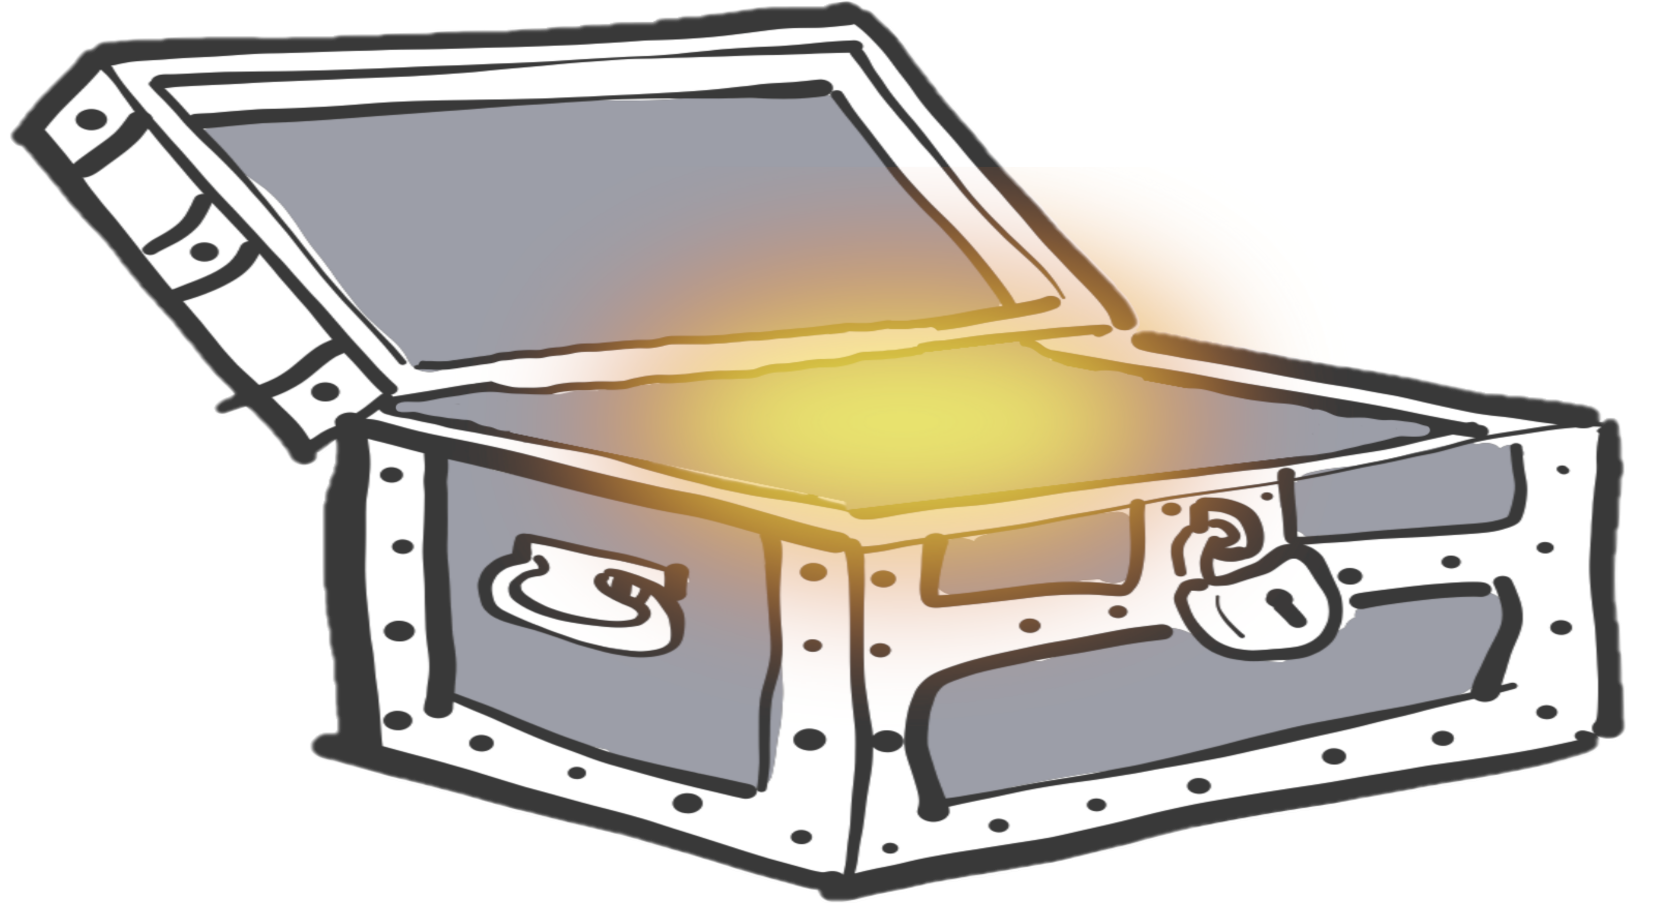
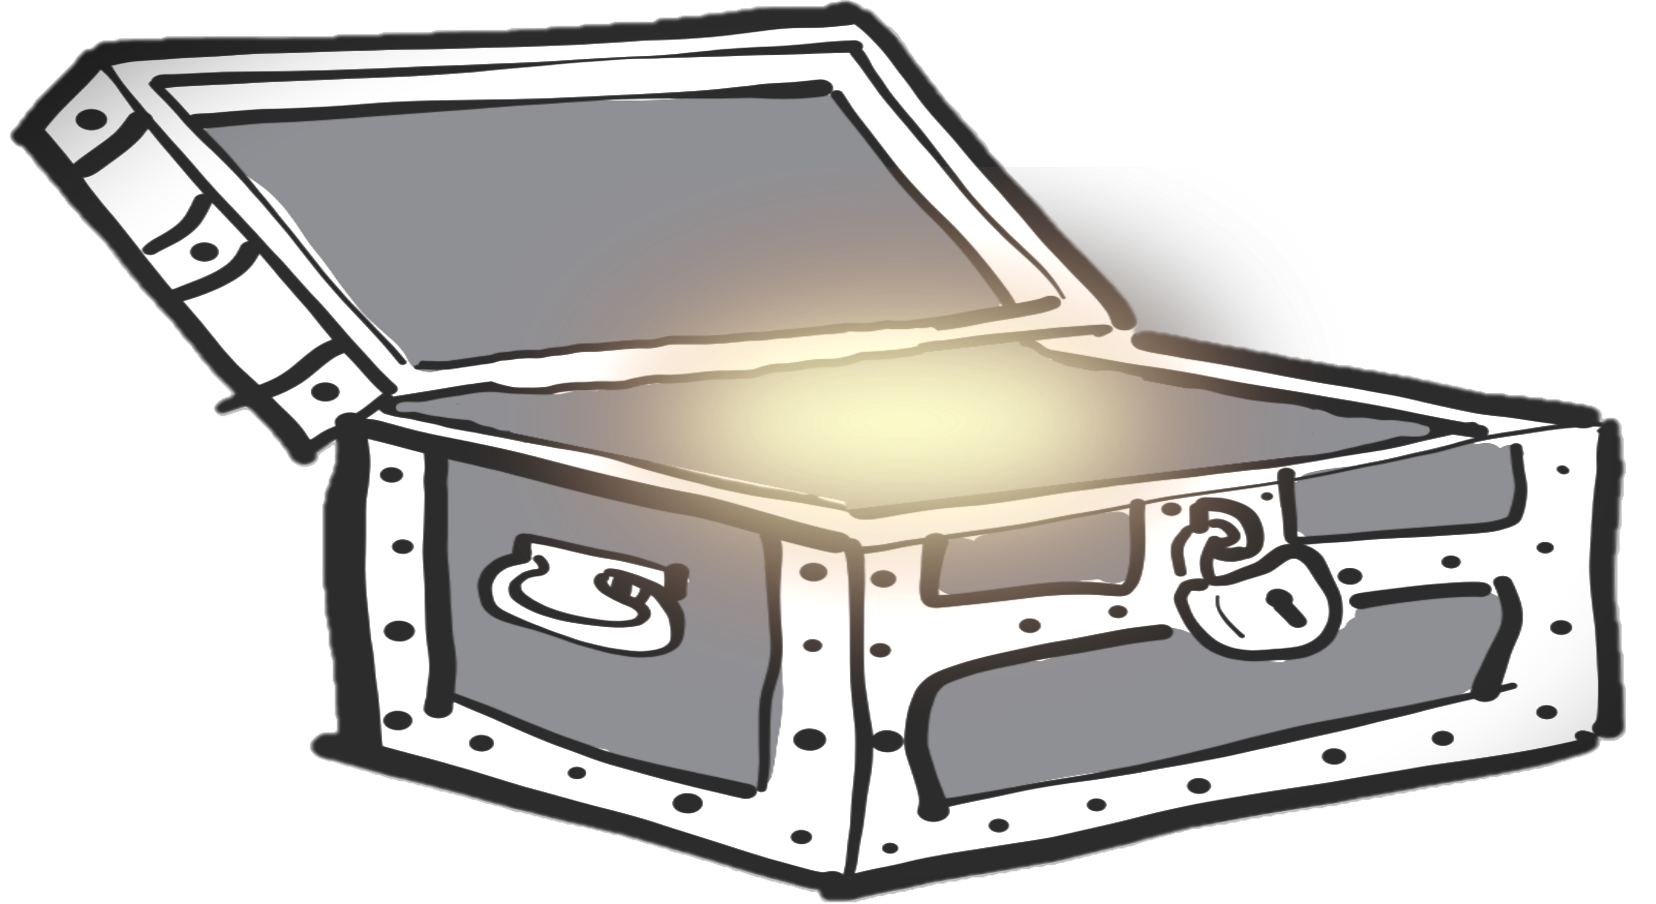
dashtime

diff --git a/test/example.css b/test/example.css
@@ -97,7 +97,7 @@ body {
   margin-top: 30px;
   position: fixed;
   transform: translate(-50%, -50%);
-  height: 15vh;
+  width: 250px;
   font-size: 1rem;
   text-align: center;
   -webkit-filter: drop-shadow(5px 5px 5px rgb(140, 167, 185));
@@ -295,17 +295,8 @@ body {
   from{transform:scale(0)} to{transform:scale(1)}
 }
 .btn1 {
+  padding: 10px;
   margin-top: 5vh;
-  width: 80vw;
-  border-color: aliceblue;
-  background-color: rgb(255, 255, 255, 0.2);
-  color:rgb(56, 82, 100);
-  border-radius: 8px;
-  font-size: x-large;
-  margin-bottom: 50px;
-  box-shadow: rgba(9, 143, 233, 0.25) 0px 14px 28px, rgba(0, 0, 0, 0.22) 0px 10px 10px;
-}
-.btn2 {
   width: 80vw;
   border-color: aliceblue;
   background-color: rgb(255, 255, 255, 0.4);
@@ -315,10 +306,22 @@ body {
   margin-bottom: 50px;
   box-shadow: rgba(9, 143, 233, 0.25) 0px 14px 28px, rgba(0, 0, 0, 0.22) 0px 10px 10px;
 }
-.btn3 {
+.btn2 {
+  padding: 10px;
   width: 80vw;
   border-color: aliceblue;
-  background-color: rgb(255, 255, 255, 0.6);
+  background-color: rgb(255, 255, 255, 0.7);
+  color:rgb(56, 82, 100);
+  border-radius: 8px;
+  font-size: x-large;
+  margin-bottom: 50px;
+  box-shadow: rgba(9, 143, 233, 0.25) 0px 14px 28px, rgba(0, 0, 0, 0.22) 0px 10px 10px;
+}
+.btn3 {
+  padding: 10px;
+  width: 80vw;
+  border-color: aliceblue;
+  background-color: rgb(255, 255, 255, 0.8);
   color:rgb(56, 82, 100);
   border-radius: 8px;
   font-size: x-large;

diff --git a/cc-main.html b/cc-main.html
@@ -20,13 +20,17 @@
 <!-- Tile -->
 <div class="logobox">
   <p id="community">COMMUNITY </p> 
-  <img id="chest" src="/assets/img/CommunityChest/chest.png" alt="">
+  <img id="chest" src="/assets/img/CommunityChest/chestlight.png" alt="">
 </div>
 <!--  -->
 
 
 <div class="w3-container">
-  <P onclick="howto(this)" class="w3-hover-opacity" style="margin-top: 5vh; margin-bottom: 5vh; color: rgb(56, 82, 100);">HOW IT WORKS! </P>
+  <P onclick="howto(this)" class="w3-hover-opacity" style="margin-top: 5vh; margin-bottom: 5vh;   background:rgb(255, 255, 255,);
+  color:rgb(56, 82, 100);
+  text-shadow:1px 1px 10px rgb(153, 173, 187), 1px 1px 10px rgb(147, 173, 192);
+  font-size:24px;
+  text-align:center;">HOW IT WORKS! </P>
 </div>
 <div id="howto" class="layer1" onclick="this.style.display='none'">
   <div class="layer1-content-howto w3-animate-zoom">

diff --git a/test/login.html b/test/login.html
@@ -21,7 +21,7 @@
   
 
   </div><div>
-  <img class="chestlogin" src="/assets/img/CommunityChest/chest.png" alt="">
+  <img class="chestlogin" src="/assets/img/CommunityChest/chestlight.png" alt="">
 
   </div>
   <br>

diff --git a/test/loginstyle.css b/test/loginstyle.css
@@ -11,7 +11,8 @@ body {
   min-height: 80vh;
 }
 .chestlogin {
-  width: 120px; 
+  margin-top: -5px;
+  width: 140px; 
 }
 .login {
   text-align: center;
